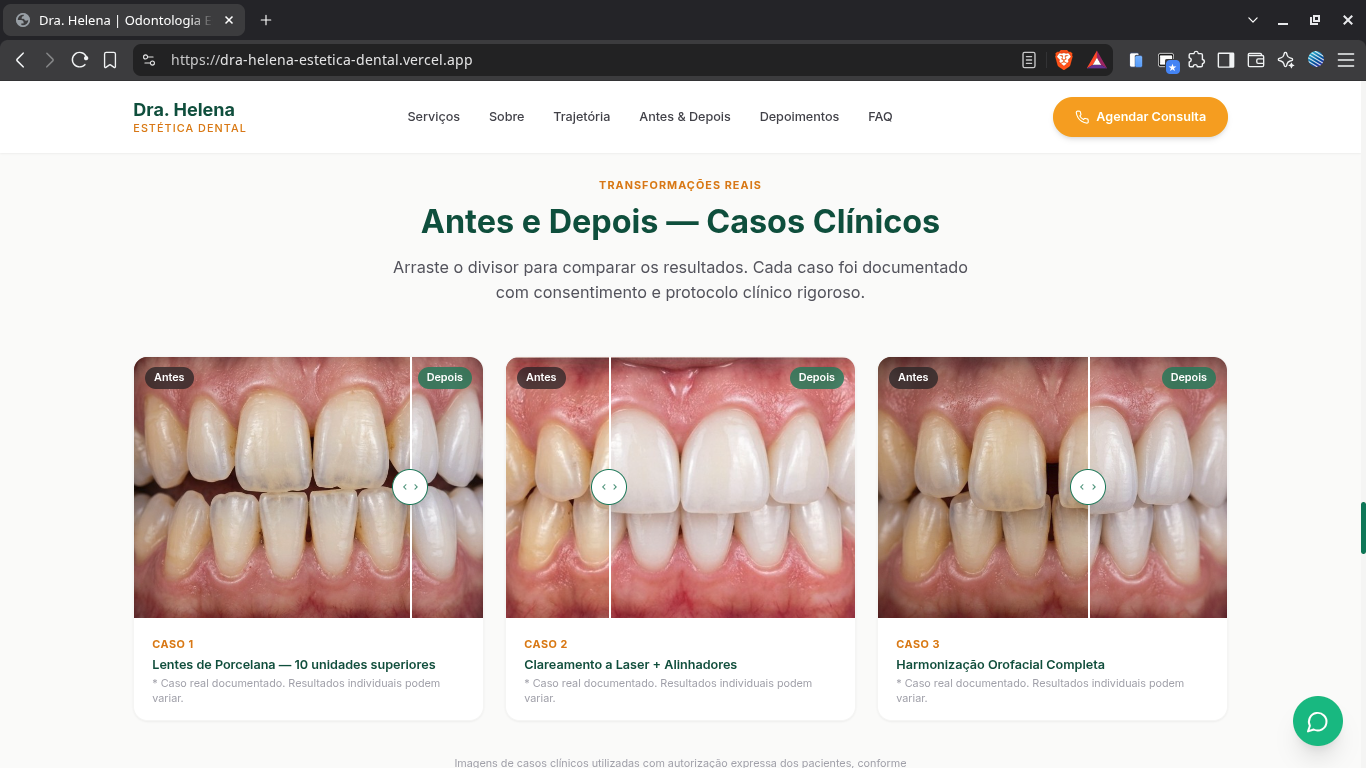
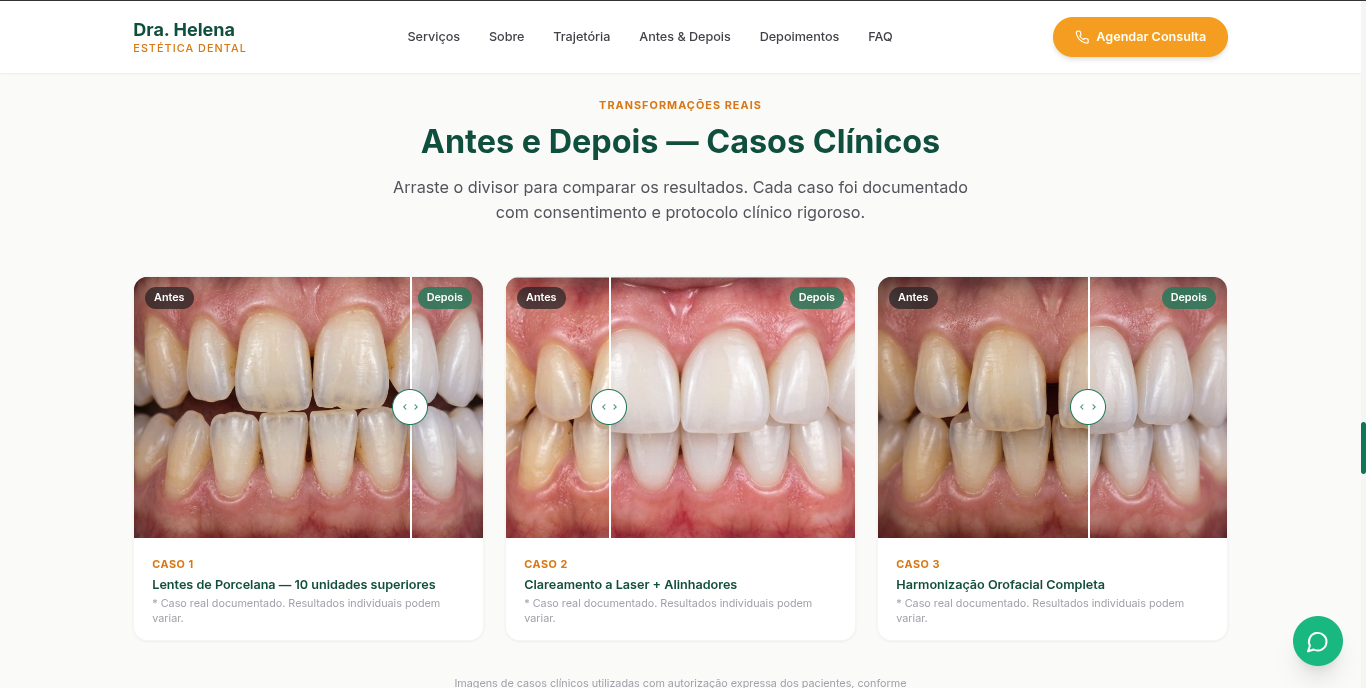
components/map-card.tsx & components/portfolio.tsx: Restauração do componente de mapa com as cidades de Feira de Santana e Irará usando transição de       opacidade sem desmontagem de iframe.       • components/github-card.tsx & dictionaries/: Novo layout dark-mode nativo com KPI pills (Contribuiçõe

diff --git a/components/portfolio.tsx b/components/portfolio.tsx
@@ -1,6 +1,6 @@
 "use client";
 
-import { Shield, Trophy, Car, Server, Network, Users, Sparkles } from "lucide-react";
+import { Shield, Trophy, Server, Network, Users, Sparkles } from "lucide-react";
 import { HeroCard } from "@/components/hero-card";
 import { TechMarquee } from "@/components/tech-marquee";
 import { CommunityCard } from "@/components/community-card";
@@ -47,30 +47,6 @@ export function Portfolio() {
       colSpan: "md:col-span-2",
     },
     {
-      id: "ecoquintal",
-      title: "EcoQuintal",
-      shortDesc: t.projects.items.ecoquintal.shortDesc,
-      longDesc: t.projects.items.ecoquintal.longDesc,
-      tags: ["React", "UI/UX", "3D Design", "Sustainability"],
-      liveUrl: "https://ecoquintal.vercel.app",
-      mainImage: "/projects/ecoquintal-main.png",
-      gallery: ["/projects/ecoquintal-1.png", "/projects/ecoquintal-2.png"],
-      icon: Droplets,
-      colSpan: "md:col-span-1",
-    },
-    {
-      id: "siconecta",
-      title: "SI CONECTA",
-      shortDesc: t.projects.items.siconecta.shortDesc,
-      longDesc: t.projects.items.siconecta.longDesc,
-      tags: ["Web", "Community", "Event Mgmt"],
-      githubUrl: "https://github.com/CarlosH-Santiago/SI_CONECTA",
-      mainImage: "/projects/siconecta-main.png",
-      gallery: ["/projects/siconecta-1.png"],
-      icon: Users,
-      colSpan: "md:col-span-1",
-    },
-    {
       id: "atelier",
       title: "Atelier E-Commerce",
       shortDesc: t.projects.items.atelier.shortDesc,
@@ -84,15 +60,27 @@ export function Portfolio() {
       colSpan: "md:col-span-2",
     },
     {
-      id: "combustion",
-      title: "Combustion Analytics",
-      shortDesc: t.projects.items.combustion.shortDesc,
-      longDesc: t.projects.items.combustion.longDesc,
-      tags: ["Kotlin", "Android", "Material Design", "Retrofit"],
-      githubUrl: "https://github.com/CarlosH-Santiago/CombustionCarApp_DIO_Cognizant",
-      mainImage: "/projects/combustion-main.jpg",
-      gallery: ["/projects/combustion-1.jpg", "/projects/combustion-2.jpg"],
-      icon: Car,
+      id: "ecoquintal",
+      title: "EcoQuintal",
+      shortDesc: t.projects.items.ecoquintal.shortDesc,
+      longDesc: t.projects.items.ecoquintal.longDesc,
+      tags: ["React", "UI/UX", "3D Design", "Sustainability"],
+      liveUrl: "https://ecoquintal.vercel.app",
+      mainImage: "/projects/ecoquintal-main.png",
+      gallery: ["/projects/ecoquintal-1.png", "/projects/ecoquintal-2.png"],
+      icon: Droplets,
+      colSpan: "md:col-span-2",
+    },
+    {
+      id: "siconecta",
+      title: "SI CONECTA",
+      shortDesc: t.projects.items.siconecta.shortDesc,
+      longDesc: t.projects.items.siconecta.longDesc,
+      tags: ["Web", "Community", "Event Mgmt"],
+      githubUrl: "https://github.com/CarlosH-Santiago/SI_CONECTA",
+      mainImage: "/projects/siconecta-main.png",
+      gallery: ["/projects/siconecta-1.png"],
+      icon: Users,
       colSpan: "md:col-span-2",
     },
   ];
